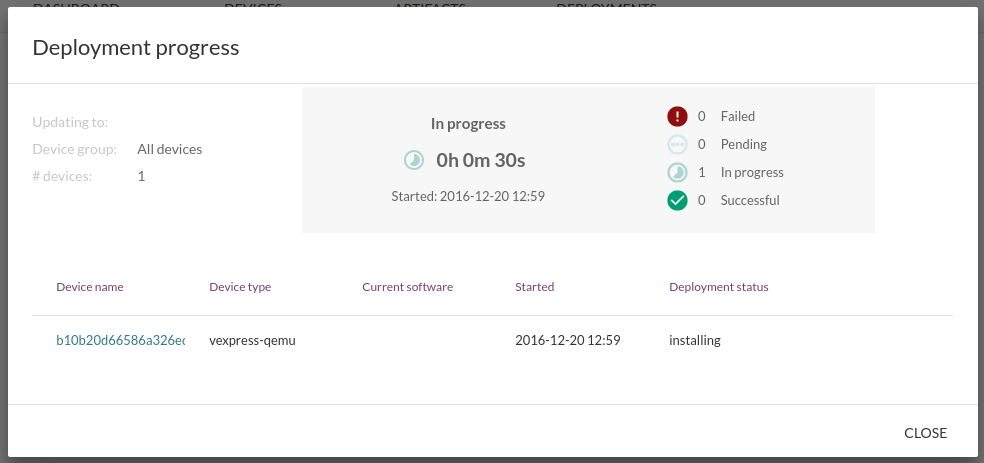
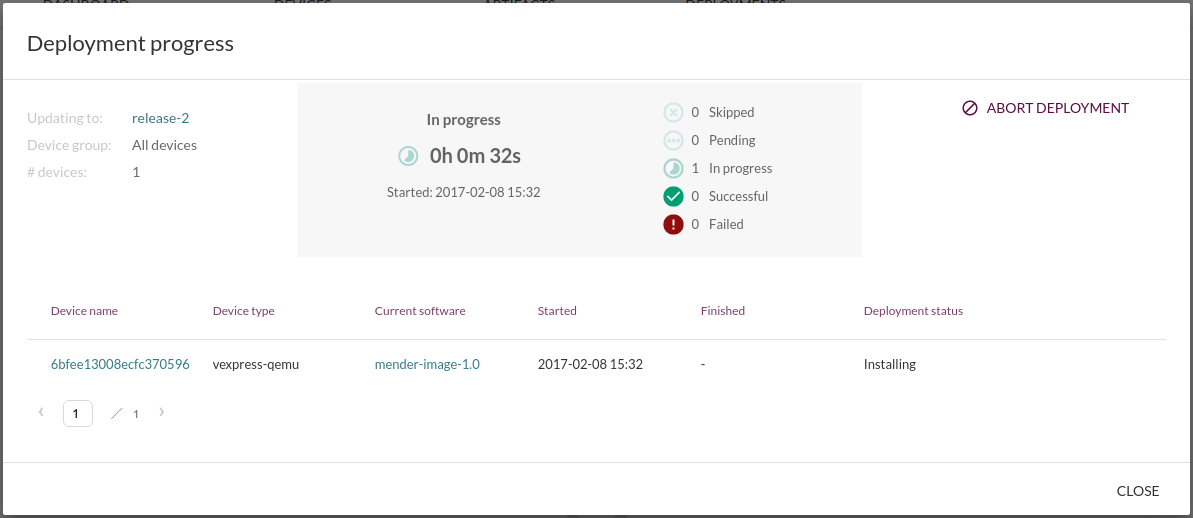
update screenshots and console outputs to latest version
(cherry picked from commit 745e95d544b2ab0ffe43e6f820a3961b5d02c735)

diff --git a/01.Getting-started/03.Deploy-to-virtual-devices/docs.md b/01.Getting-started/03.Deploy-to-virtual-devices/docs.md
@@ -72,13 +72,9 @@ the virtual device is provided for download at
 
 After the download finishes, go back to the Mender server UI,
 click the **Artifacts** tab and upload this Mender Artifact.
-
-Please fill in the following:
-
-* Name: `release-2`
-* Description: `My test build`
-
-!!! Both these fields are just informational, to make it is easier to recognize Artifacts after they have been uploaded. Their contents do not affect deployments.
+You can set the *Description* input field to `My test build`,
+it is just informational to make to make it is easier to
+recognize Artifacts after they have been uploaded.
 
 In the UI it should look something like this:
 
@@ -98,8 +94,6 @@ group of devices to deploy it to. Since we have just
 one Artifact and no custom groups right now, we simply select
 the Artifact we just uploaded and **All devices**, then
 **Create deployment**.
-
-!!! It may take a few seconds until the deployment shows up. You can also refresh your browser to see it immediately.
 
 
 ## See the progress of the deployment
@@ -131,15 +125,11 @@ Thus, if you create another deployment with the Artifact you already
 uploaded, Mender will see that it contains the same rootfs
 that is already installed and skip the deployment. It will
 immediately be marked as successful and moved to *Past deployments*.
-
 For this reason, we provide another Artifact that you can use
 to deploy with at [https://d1b0l86ne08fsf.cloudfront.net/1.0.x/vexpress-qemu/vexpress_release_1.mender](https://d1b0l86ne08fsf.cloudfront.net/1.0.x/vexpress-qemu/vexpress_release_1.mender).
 
-Go to **Artifacts** again and upload with the following fields:
-
-* Name: `release-1`
-* Description: `My original build`
-
+Go to **Artifacts** again and upload this artifact. You can set
+the *Description* input field to `My original build`.
 After the Artifact has been uploaded, you can deploy it to your device,
 as you did earlier.
 

diff --git a/01.Getting-started/02.Create-a-test-environment/docs.md b/01.Getting-started/02.Create-a-test-environment/docs.md
@@ -92,7 +92,7 @@ This includes output from the Mender virtual QEMU device, similar to the followi
 > mender-client_1             | Booting Linux on physical CPU 0x0  
 > mender-client_1             | Initializing cgroup subsys cpuset  
 > ...  
-> mender-client_1             | Poky (Yocto Project Reference Distro) 2.1.1 vexpress-qemu ttyAMA0
+> mender-client_1             | Poky (Yocto Project Reference Distro) 2.2.1 vexpress-qemu ttyAMA0
 
 After a few minutes, the logs will stop coming except for some periodic log messages
 from the Mender authentication service similar to the following:
